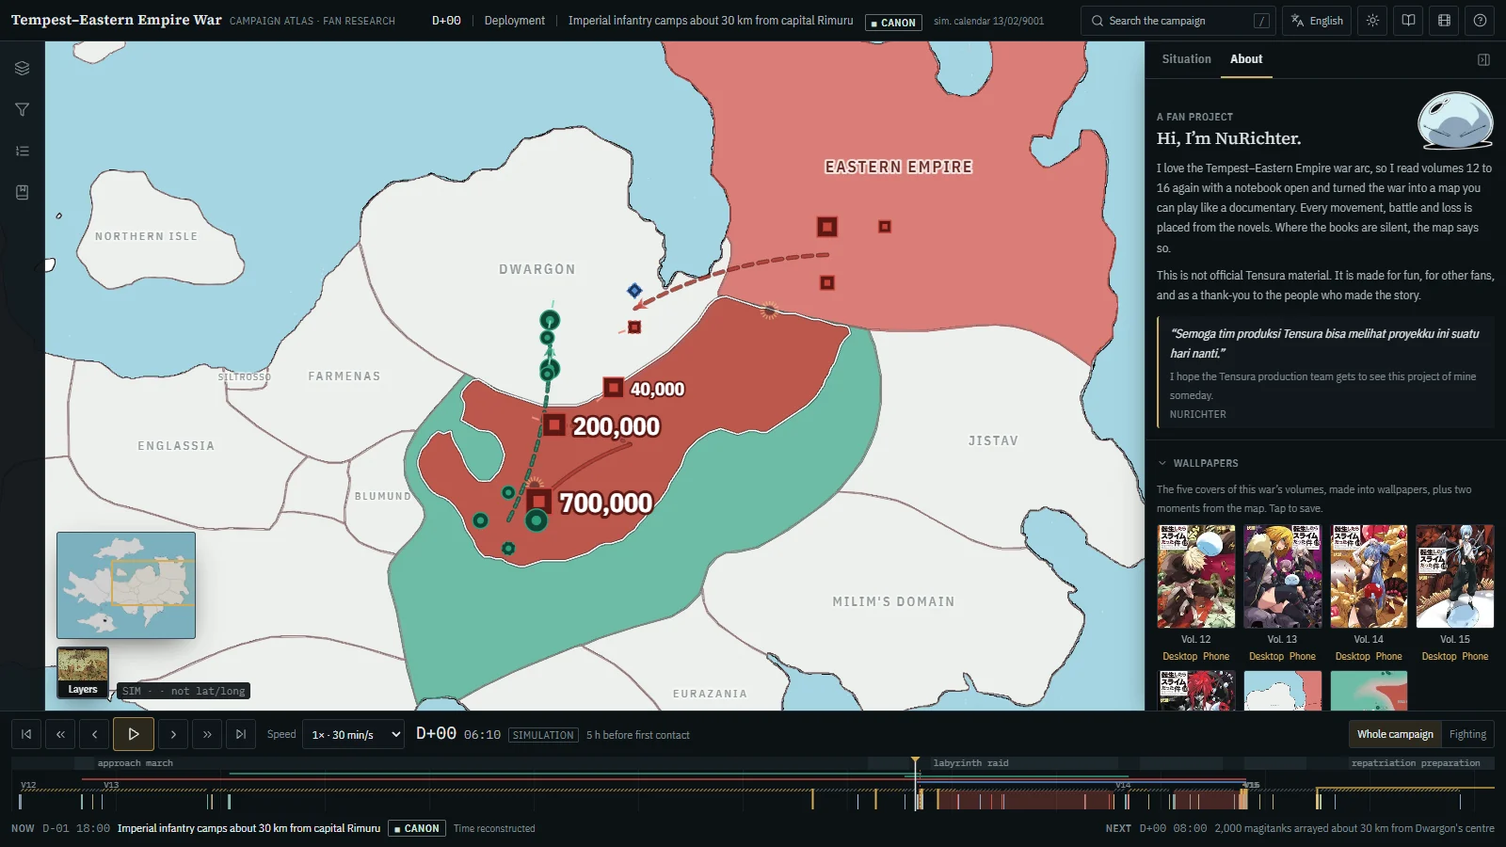
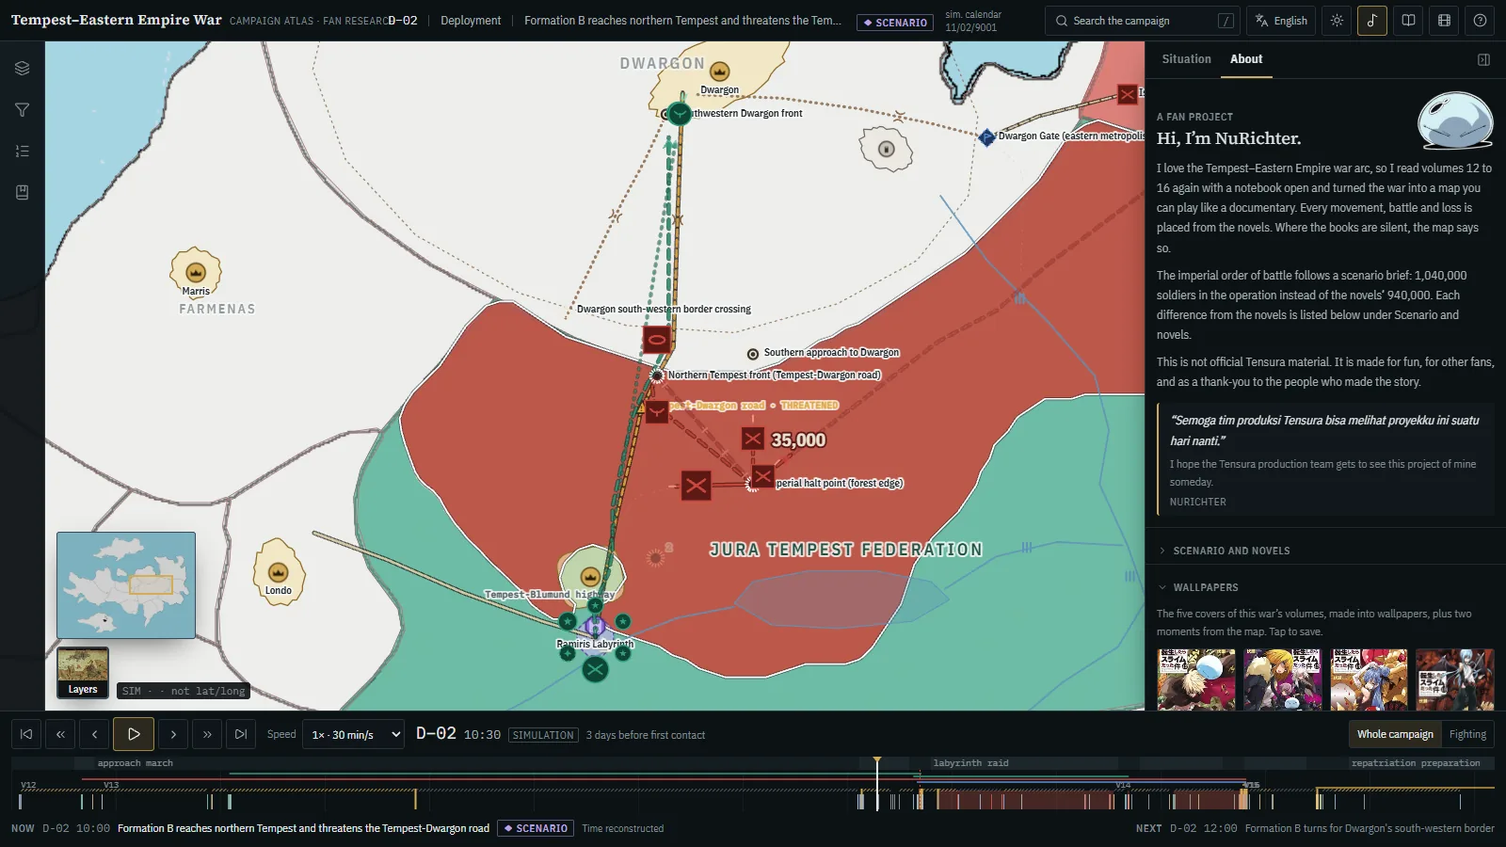
README and atlas media recorded from the current atlas
Every map GIF, screenshot and wallpaper is captured again from the current
build: the timelapse, the split at the halt point, the failed south-western
offensive (replacing the old Dwargon siege clip), the D+10 collapse, both
cinematic modes with the 3D tokens and standees, the tour, themes and
languages. The in-app wallpapers are the same new captures. README text
describes the atlas as it is now; QA figures are from fresh runs.

Place notes for the south-western battlefield, the Isthmus cluster and the
camp outside the labyrinth describe their current positions. The playback
check measures the bulk of a transition, so an off-screen tail no longer
reads as a frozen map. Visual references updated after review.

diff --git a/scripts/capture-playback.ts b/scripts/capture-playback.ts
@@ -18,7 +18,7 @@ import { fileURLToPath } from 'node:url';
 import puppeteer, { type Page } from 'puppeteer';
 
 import { simToLngLatTuple } from '../src/lib/coords';
-import type { FrontFile } from '../src/map/field/front';
+import { decodeFront, type FrontFile } from '../src/map/field/front';
 
 const ROOT = join(dirname(fileURLToPath(import.meta.url)), '..');
 const OUT = join(ROOT, 'qa-artifacts', 'front');
@@ -81,11 +81,19 @@ async function main(): Promise<void> {
     await page.evaluateOnNewDocument('try { localStorage.clear() } catch {}');
     const ep = front.episodes.find((e) => e.kind === 'COLLAPSE' && e.cells >= 500)!;
     const [lng, lat] = simToLngLatTuple(ep.centroid[0], ep.centroid[1]);
-    const start = Math.floor(ep.startFrame - 1);
+    // The bulk of the transition: the 5th to 90th percentile of its flips. An
+    // episode can carry a tail of stragglers far from its centroid, off the
+    // captured view, which would make an on-screen capture look frozen.
+    const decoded = decodeFront(front);
+    const flips: number[] = [];
+    for (let i = 0; i < decoded.times.length; i += 1) if (decoded.times[i] >= ep.startFrame && decoded.times[i] <= ep.endFrame) flips.push(decoded.times[i]);
+    flips.sort((a, b) => a - b);
+    const bulk = { from: flips[Math.floor(flips.length * 0.05)], to: flips[Math.floor(flips.length * 0.9)] };
+    const start = Math.floor(bulk.from - 1);
     await page.goto(`${origin}/?frame=${start}`, { waitUntil: 'networkidle0', timeout: 90000 });
     await page.waitForFunction(() => Boolean((window as unknown as { __atlasMap?: { loaded: () => boolean } }).__atlasMap?.loaded()), { timeout: 60000 });
     await page.evaluate(`window.__atlasMap.jumpTo({ center: [${lng}, ${lat}], zoom: 4.6 })`);
-    await page.keyboard.press('3'); // 1x
+    await page.keyboard.press('2'); // 0.5x, so the captures fall inside the bulk
     await sleep(2500);
     const clip = { x: 48, y: 44, width: 848, height: 610 };
     const shot = async () => Buffer.from(await page.screenshot({ clip, type: 'png' }));
@@ -104,11 +112,11 @@ async function main(): Promise<void> {
     let inside = 0;
     let moving = 0;
     for (let k = 1; k < frames.length; k += 1) {
-      if (times[k - 1] < ep.startFrame - 3 || times[k] > ep.endFrame) continue;
+      if (times[k - 1] < bulk.from - 3 || times[k] > bulk.to) continue;
       inside += 1;
       if ((await diff(blank, frames[k - 1], frames[k])) > 0.002) moving += 1;
     }
-    results.push(['the front moves while playing', inside >= 3 && moving === inside, `${moving}/${inside} captures inside the transition differ; frames ${times.map((t) => t.toFixed(1)).join(', ')} (transition ${ep.startFrame}–${ep.endFrame})`]);
+    results.push(['the front moves while playing', inside >= 3 && moving === inside, `${moving}/${inside} captures inside the transition differ; frames ${times.map((t) => t.toFixed(1)).join(', ')} (bulk of the transition ${bulk.from.toFixed(1)}–${bulk.to.toFixed(1)}, episode ${ep.startFrame}–${ep.endFrame})`]);
 
     // 2. Paused: frozen.
     await page.keyboard.press('Space');

diff --git a/README.md b/README.md
@@ -25,15 +25,15 @@
 ![Languages](https://img.shields.io/badge/bahasa-30-8fc9b6?style=flat-square)
 ![Theme](https://img.shields.io/badge/tema-dark_·_light-a7b1b5?style=flat-square)
 ![Tests](https://img.shields.io/badge/tes-25%2F25_·_skenario_27%2F27-2f9e7e?style=flat-square)
-![Next.js](https://img.shields.io/badge/Next.js-15-000?style=flat-square&logo=nextdotjs)
+![Next.js](https://img.shields.io/badge/Next.js-16-000?style=flat-square&logo=nextdotjs)
 ![MapLibre](https://img.shields.io/badge/MapLibre_GL-5-396CB2?style=flat-square&logo=maplibre&logoColor=white)
 ![TypeScript](https://img.shields.io/badge/TypeScript-strict-3178C6?style=flat-square&logo=typescript&logoColor=white)
 
 <br>
 
-<img src="./assets/readme/gifs/war-timelapse.gif" width="100%" alt="Timelapse seluruh perang dari D−5 sampai D+16 dalam mode sinematik">
+<img src="./assets/readme/gifs/war-timelapse.gif" width="100%" alt="Timelapse seluruh perang dari D−39 sampai D+17">
 
-<sub>Seluruh perang dalam satu tarikan napas. Dari pawai ke hutan Jura sampai malam panjang di Dwargon, direkam langsung dari atlas.</sub>
+<sub>Seluruh perang dalam satu tarikan napas. Satu kolom berangkat dari Kekaisaran, pecah di titik henti, menyerbu hutan Jura dan Dwargon, lalu runtuh. Direkam langsung dari atlas.</sub>
 
 <br><br>
 
@@ -82,7 +82,7 @@ Kalau bukunya diam, atlasnya juga bilang begitu. Asal lo tau ya, angka yang tida
 <td align="center"><h3>24</h3><sub>transisi wilayah, 2.466 sel</sub></td>
 <td align="center"><h3>53</h3><sub>karakter, 41 photocard</sub></td>
 <td align="center"><h3>23</h3><sub>ibu kota, kota, dan Labirin</sub></td>
-<td align="center"><h3>30</h3><sub>bahasa, 823 teks antarmuka</sub></td>
+<td align="center"><h3>30</h3><sub>bahasa, 827 teks antarmuka</sub></td>
 <td align="center"><h3>18</h3><sub>langkah tur bersama warga Tempest</sub></td>
 </tr>
 </table>
@@ -90,8 +90,8 @@ Kalau bukunya diam, atlasnya juga bilang begitu. Asal lo tau ya, angka yang tida
 <br>
 
 <div align="center">
-<img src="./assets/readme/screenshots/hero-dark.webp" width="100%" alt="Atlas pada D+10: kantong Kekaisaran di Jura runtuh, panel Situasi menampilkan siapa melawan siapa">
-<sub>D+10, 10:50. Kamp Kekaisaran di luar Labirin dimusnahkan. Panel kanan langsung menjawab: siapa melawan siapa, berapa yang gugur, apa yang baru terjadi.</sub>
+<img src="./assets/readme/screenshots/hero-dark.webp" width="100%" alt="Atlas pada D−2: Formation B mengancam jalan Tempest–Dwargon, panel Situasi menampilkan buku besar operasi">
+<sub>D−2, 10:30. Formation B (200.000) berdiri di jalan Tempest–Dwargon dan mengancam jalur pasokannya, pasukan lain menyebar dari titik henti. Panel kanan langsung menjawab: siapa melawan siapa, berapa yang gugur, apa yang baru terjadi, dan buku besar pasukan detik itu.</sub>
 </div>
 
 <br>
@@ -102,11 +102,11 @@ Atlas ini meniru *cara* empat video perang dokumenter menggerakkan wilayah. Vide
 
 <table>
 <tr>
-<td width="50%"><img src="./assets/readme/gifs/front-advance-into-jura.gif" alt="Garis depan Kekaisaran maju ke barat menembus hutan Jura"><br><b>D−2 → D−1 · Serbuan ke hutan Jura</b><br><sub>700.000 infanteri masuk. Garis depan merayap ke barat mengikuti barisan pasukan, dengan sabuk transisi gradien di tepinya.</sub></td>
+<td width="50%"><img src="./assets/readme/gifs/front-advance-into-jura.gif" alt="Kolom Kekaisaran pecah di titik henti dan menyerbu hutan Jura"><br><b>D−3 → D+0 · Pecah di titik henti</b><br><sub>Kolom 1.005.000 berhenti dan pecah jadi lima. 700.000 infanteri menyerbu hutan menuju Rimuru, yang lain berangkat ke utara dan ke Dwargon. Garis depan merayap mengikuti barisan.</sub></td>
 <td width="50%"><img src="./assets/readme/gifs/pocket-collapse-d10.gif" alt="Kantong Kekaisaran di Jura runtuh setelah kamp dimusnahkan"><br><b>D+10 · Kantong Jura runtuh</b><br><sub>Baru bergerak setelah ikon pertempuran disilang, lalu mundur ke arah perbatasan Kekaisaran. Wilayah yang paling jauh dari rumah lepas lebih dulu.</sub></td>
 </tr>
 <tr>
-<td width="50%"><img src="./assets/readme/gifs/dwargon-retreat.gif" alt="Sabuk pengepungan Dwargon mundur ke perbatasan Kekaisaran pada malam panjang"><br><b>D+15 → D+16 · Pengepungan Dwargon pecah</b><br><sub>Sabuk pengepungan yang menempel ke tanah air Kekaisaran mundur sampai habis. Legion mendarat dan bertempur, tapi tidak bisa merebut lagi tanah yang sudah hilang.</sub></td>
+<td width="50%"><img src="./assets/readme/gifs/dwargon-sw-offensive.gif" alt="Formation B mengancam jalan Tempest–Dwargon, menembus perbatasan barat daya Dwargon, lalu hancur"><br><b>D−2 → D+0 · Serangan barat daya gagal</b><br><sub>Formation B mengancam jalan Tempest–Dwargon, menembus perbatasan barat daya lewat lembah, dan berbaris 30 km dari kota Dwargon. Lalu hancur. Rutenya berakhir dengan tanda silang, Dwargon tidak pernah jatuh.</sub></td>
 <td width="50%"><img src="./assets/readme/screenshots/capitals-labyrinth.webp" alt="Ibu kota Rimuru dan Labirin Ramiris di tengah wilayah yang dikuasai Kekaisaran"><br><b>Kota tidak pernah jatuh</b><br><sub>Rimuru dengan mahkotanya dan Labirin Ramiris bergaris putus-putus. Wilayah Kekaisaran mengalir di sekelilingnya, persis seperti di novel.</sub></td>
 </tr>
 </table>
@@ -139,7 +139,7 @@ Sutradaranya membaca perang setiap seperempat detik: event terbaru, pertempuran 
 
 **Auto Timing.** Filmnya mengatur kecepatannya sendiri: 16× saat persiapan, 8× saat serbuan pertama, melambat ke 2× menjelang pertempuran, dan 1× tepat saat pertempuran berlangsung. Tombolnya ada di atas layar dan bisa dimatikan kapan saja.
 
-**Cold open.** Sebelum film berjalan, empat kalimat pembuka muncul satu per satu, semuanya dari catatan perang: *"D−40. The Empire decides on war."*, *"1,010,002 imperial soldiers will fall."*, *"700,000 of them will rise again."*, *"Tempest will not lose a single soldier."* Setiap kartu bab juga membawa kalimat pemikat dari event terpenting di bab itu.
+**Cold open.** Sebelum film berjalan, empat kalimat pembuka muncul satu per satu, semuanya dari catatan perang: *"D−40. The Empire decides on war."*, *"1,020,002 imperial soldiers will fall."*, *"700,000 of them will rise again."*, *"Tempest will not lose a single soldier."* Angka gugurnya untuk seluruh Kekaisaran: 1.010.000 dari operasi invasi, ditambah 10.000 Magic Beast Division yang bertempur di luar operasi dan dua tokoh bernama. Setiap kartu bab juga membawa kalimat pemikat dari event terpenting di bab itu.
 
 Kamera tidak pernah melompat. Pusat, zoom, kemiringan, dan arah pandang masing-masing mengikuti pegas teredam kritis yang dihitung persis, jadi gerakannya sama mulusnya di komputer kencang maupun ponsel lambat. Di atasnya ada **kartu bab** di setiap tahap perang, **kartu VS** saat pertempuran dimulai (bendera dan photocard kedua pihak), kartu event yang bertumpuk, buku korban, bingkai viewfinder, dan pita film yang menandai setiap bab. Sentuh peta kapan saja untuk mengambil alih kamera, sutradara kembali beberapa detik kemudian.
 
@@ -150,7 +150,7 @@ Kamera tidak pernah melompat. Pusat, zoom, kemiringan, dan arah pandang masing-m
 Tekan `V` (atau pilih **3D** di sebelah Datar dan Bola dunia) dan seluruh atlas berdiri jadi dunia tiga dimensi, dibangun dengan **three.js**. Mode sinematik memakai panggung yang sama secara default, dengan tombol **2D | 3D** di bagian atas.
 
 <div align="center">
-<img src="./assets/readme/gifs/cinematic-3d.gif" width="100%" alt="Mode sinematik 3D: pertempuran gerbang Dwargon, portal Labirin, dan malam panjang">
+<img src="./assets/readme/gifs/cinematic-3d.gif" width="100%" alt="Mode sinematik 3D: token pasukan di titik henti, serangan barat daya, Gerbang Dwargon, dan standee karakter">
 </div>
 
 | | Yang ada di layar |
@@ -158,11 +158,15 @@ Tekan `V` (atau pilih **3D** di sebelah Datar dan Bola dunia) dan seluruh atlas 
 | 🏔 | **Relief** dengan Myth Map yang di-*super-resolve* sebagai kulitnya. Pegunungan Kanaat berdiri tinggi di sekitar Dwargon. Reliefnya rekonstruksi bergaya, novel tidak memberi ketinggian. |
 | 🌊 | **Laut beranimasi** dengan ombak, pantulan langit, dan kilau matahari |
 | 🟥 | **Wilayah dan front** dari data yang sama dengan peta 2D, dilukis di atas medan, garis depannya menyala |
-| 🗼 | **Pasukan** sebagai pilar bercahaya warna faksi, tingginya mengikuti kekuatan, angkanya melayang di atas |
+| ♟ | **Pasukan sebagai token 3D**, kembaran ikon 2D: alas berbentuk faksi (kotak Kekaisaran, bulat Tempest, belah ketupat Dwargon, segitiga lainnya), simbol jenis unit timbul di atasnya (✕ infanteri, oval lapis baja, baling-baling udara yang berputar, bintang elite), angka kekuatan melayang di atas. Pasukan udara melayang bertali, yang bergerak menunjukkan arah, yang hancur rebah kelabu |
+| 🎴 | **Karakter 2.5D.** Tokoh di event yang sedang berlangsung berdiri sebagai standee photocard di atas dudukan berwarna faksi, selalu menghadap kamera, lengkap dengan bayangan |
+| 🚩 | **Titik strategis** sebagai model kecil: bendera titik henti, menara gerbang, chevron perbatasan, target sasaran, tenda kamp |
+| 🛣 | **Rute terukur** yang sedang ditempuh menempel di relief, sama dengan garis di peta 2D |
 | 💥 | **Pertempuran** dengan cincin berdenyut, percikan api, dan cahaya kobaran selama berlangsung |
 | 👑 | **Ibu kota** sebagai kota 3D bermahkota, **Labirin** sebagai portal ungu dengan pilar cahaya |
 | 🌗 | **Siang dan malam mengikuti jam simulasi.** Matahari bergerak sesuai jam, malam panjang D+15 benar-benar terjadi di bawah cahaya bulan |
 | 🎥 | **Kamera sutradara** yang sama, diterjemahkan ke orbit 3D |
+| 👆 | **Klik** token, titik strategis, atau standee untuk membuka dossier-nya |
 
 **Peta lebih HD saat di-zoom.** Base Map berubah jadi vektor (garis pantai dan perbatasan tetap tajam di zoom berapa pun), dan Myth Map dilukis ulang dengan super-resolusi ×4 (FSRCNN) lalu dipotong jadi 609 tile, jadi detailnya bertahan saat didekati.
 
@@ -180,7 +184,7 @@ Tekan `V` (atau pilih **3D** di sebelah Datar dan Bola dunia) dan seluruh atlas 
 
 ## ⚖ Aturan perang di peta ini
 
-Novel tidak menggambar garis kendali, jadi wilayah yang dikuasai **direkonstruksi** dari posisi, kekuatan, dan nasib setiap formasi. Supaya hasilnya logis seperti perang sungguhan, enam aturan ini dijaga oleh kompiler dan diuji otomatis:
+Novel tidak menggambar garis kendali, jadi wilayah yang dikuasai **direkonstruksi** dari posisi, kekuatan, dan nasib setiap formasi. Supaya hasilnya logis seperti perang sungguhan, tujuh aturan ini dijaga oleh kompiler dan diuji otomatis:
 
 | | Aturan | Artinya di layar |
 |:---:|---|---|
@@ -196,9 +200,9 @@ Detail teknis ada di [`docs/TERRITORIAL-ANIMATION.md`](./docs/TERRITORIAL-ANIMAT
 
 <br>
 
-## 🌍 Skenario R6: model geografis dan buku besar pasukan
+## 🌍 Buku besar pasukan dan peta berskala
 
-Sejak revisi **R6** (11 Oktober 2026), atlas mengikuti **skenario pasukan** milik pemilik proyek, bukan hitungan kanon 940.000. Setiap perbedaan dengan novel tetap dicatat (DISC-R6-01 sampai 09 di panel About), tidak disembunyikan.
+Susunan pasukan Kekaisaran di atlas ini mengikuti **brief skenario** pembuatnya. Novel menyebut 940.000 untuk tentara invasi, skenarionya 1.040.000. Setiap perbedaan dengan novel dicatat dan bisa dibaca di panel About → *Scenario and novels*, tidak disembunyikan.
 
 | | Angka | Dari mana |
 |---|---:|---|
@@ -209,9 +213,9 @@ Sejak revisi **R6** (11 Oktober 2026), atlas mengikuti **skenario pasukan** mili
 | Personel unik dalam operasi | 1.040.000 | 1.010.000 + 30.000 |
 | Gugur / dibangkitkan | 1.010.000 / 700.000 | 310.000 tidak dibangkitkan, 30.000 tidak pernah gugur, 730.000 aktif di akhir |
 
-Semua angka itu **dihitung kompiler** dari data pasukan, event, dan catatan korban, lalu dicek otomatis oleh 27 tes skenario. Panel Situasi menampilkan *Operation ledger* untuk detik yang sedang diputar.
+Semua angka itu **dihitung kompiler** dari data pasukan, event, dan catatan korban, lalu dicek otomatis oleh 27 tes skenario. Panel Situasi menampilkan *Operation ledger* untuk detik yang sedang diputar, lengkap dengan hitungannya.
 
-Petanya sekarang punya **skala**: 1 piksel atlas ≈ 2 km (kalibrasi sintetis dari jarak yang disebut novel). Sungai, danau, pegunungan Kanaat beserta celahnya, hutan, dan jalan dilacak dari peta lukis. Setiap pasukan berjalan di **rute terukur**: lewat jalan, celah gunung, dan arungan, bukan garis lurus. Kecepatannya juga dicek terhadap laju yang disebut novel.
+Petanya punya **skala**: 1 piksel atlas ≈ 2 km, kalibrasi sintetis dari jarak yang disebut novel. Sungai, danau, pegunungan Kanaat beserta celahnya, hutan, dan jalan dilacak dari peta lukis. Setiap pasukan berjalan di **rute terukur**, lewat jalan, celah gunung, dan arungan, bukan garis lurus, dan kecepatannya dicek terhadap laju yang disebut novel. Status jalur pasokan (terbuka, terancam, terputus, aman) tampil di jalan Tempest–Dwargon.
 
 Rinciannya: [`docs/GEOGRAPHIC_MODEL.md`](./docs/GEOGRAPHIC_MODEL.md) · [`docs/CAMPAIGN_FORCE_LEDGER.md`](./docs/CAMPAIGN_FORCE_LEDGER.md) · [`docs/CAMPAIGN_TIMELINE.md`](./docs/CAMPAIGN_TIMELINE.md)
 
@@ -254,7 +258,7 @@ timeline
 | Jam simulasi | `11:30` | ❌ Grid 10 menit, diberi tag *SIMULATION* |
 | Kalender | `…/9001` | ❌ Penanda buatan |
 
-Ringkasan audit sintesis R6 (5 volume, 2.101 halaman, 305 adegan, 13 event baru, hitungan hari yang dikoreksi) ada di [`docs/research/SYNTHESIS_AUDIT.md`](./docs/research/SYNTHESIS_AUDIT.md).
+Ringkasan audit sintesis (5 volume, 2.101 halaman, 305 adegan, 13 event baru, hitungan hari yang dikoreksi) ada di [`docs/research/SYNTHESIS_AUDIT.md`](./docs/research/SYNTHESIS_AUDIT.md). Linimasa lengkap skenarionya ada di [`docs/CAMPAIGN_TIMELINE.md`](./docs/CAMPAIGN_TIMELINE.md).
 
 <br>
 
@@ -292,12 +296,14 @@ Spotlight-nya meluncur mulus ke setiap tombol. Di langkah peta, tur memindahkan 
 
 **🗺 Peta**
 - Base Map yang bersih atau Myth Map yang dilukis, keduanya HD saat di-zoom
-- Mode 3D three.js dengan relief, laut, siang dan malam
+- Mode 3D three.js dengan relief, laut, siang dan malam, token pasukan 3D, dan standee karakter 2.5D
+- Skala ≈ 2 km per piksel, sungai, danau, pegunungan dan celahnya, jalan dengan status pasokan
+- Pasukan berjalan di rute terukur yang mengikuti medan
 - Datar atau bola dunia, waktu tetap tidak bergeser
 - Look *Documentary* atau *War room*
 - Sabuk transisi *Gradient* atau *Pale band*
 - Poligon ibu kota, kota, dan Labirin dengan ikonnya
-- 14 lapisan perang yang bisa dinyalakan satu per satu
+- 19 lapisan perang yang bisa dinyalakan satu per satu
 
 **⏱ Waktu**
 - Kecepatan 0,25× sampai 48×, melambat sendiri di titik balik
@@ -309,8 +315,8 @@ Spotlight-nya meluncur mulus ke setiap tombol. Di langkah peta, tur memindahkan 
 <td width="50%" valign="top">
 
 **🧠 Intelijen**
-- Panel Situasi: siapa melawan siapa, korban, event, photocard A vs B
-- Dossier untuk pasukan, event, pertempuran, karakter, wilayah, teater
+- Panel Situasi: siapa melawan siapa, korban, event, photocard A vs B, buku besar operasi
+- Dossier untuk pasukan, event, pertempuran, karakter, wilayah, teater, tempat, dan fitur geografi, dengan jarak tempuh dalam km
 - Pencarian fuzzy dengan alias dan nama Jepang (`/` atau `Ctrl+K`)
 - Filter faksi, negara, pasukan, pertempuran, jenis event, status kanon
 - Setiap klaim membawa kelas provenans dan lokator sumber
@@ -350,7 +356,8 @@ Spotlight-nya meluncur mulus ke setiap tombol. Di langkah peta, tur memindahkan 
 | `,` `.` | ±1 frame (10 menit) | `C` | Mode sinematik |
 | `1` sampai `8` | Kecepatan | `0` | Bingkai seluruh kampanye |
 | `Esc` | Tutup / batal pilih | `?` | Bantuan |
-| `B` | Bookmark momen ini | | |
+| `B` | Bookmark momen ini | `V` | Mode 3D |
+| `N` | Musik nyala / mati | | |
 
 </details>
 
@@ -363,12 +370,13 @@ Spotlight-nya meluncur mulus ke setiap tombol. Di langkah peta, tur memindahkan 
 | `CANONICAL` | Didukung eksplisit oleh novel |
 | `CANONICAL_WITH_VISUAL_RECONSTRUCTION` | Kejadiannya kanon, posisi, rute, atau jam di peta direkonstruksi |
 | `INFERRED` | Mengikuti dari beberapa petunjuk, tidak dinyatakan |
+| `SCENARIO` | Ditetapkan brief skenario atlas ini, tidak dinyatakan novel |
 | `RECONSTRUCTED` | Jembatan antara titik-titik yang diketahui, dibuat proyek ini |
 | `UNRESOLVED` | Bukti tidak cukup, tetap ditampilkan supaya celahnya kelihatan |
 
 **Boleh:** interpolasi gerakan di antara dua posisi kanonik, jam simulasi untuk event yang di novel hanya bertanggal hari, dan posisi peta untuk tempat yang tidak ditandai (dengan alasan tertulis).
 
-**Tidak boleh:** mengarang pertempuran, korban, jumlah pasukan, keputusan komandan, atau presisi palsu.
+**Tidak boleh:** mengarang pertempuran, korban, keputusan komandan, atau presisi palsu. Angka pasukan yang berbeda dari novel hanya datang dari brief skenario, berkelas `SCENARIO`, dan bedanya dicatat.
 
 </details>
 
@@ -405,11 +413,12 @@ Dan tiga yang direkam langsung dari atlas, tanpa antarmuka:
 ```mermaid
 flowchart LR
     A["📚 Sources of Truth<br/>novel lokal, peta,<br/>photocard, bendera"] --> B["🗂 data-source/campaign<br/>event dan efek, pasukan,<br/>pergerakan, aturan front"]
-    B --> C["⚙ compile-data<br/>deterministik, gaya rumah,<br/>poligon kota"]
-    C --> D["🧭 compile-front<br/>sejarah wilayah dikuasai,<br/>6 aturan perang"]
+    B --> C["⚙ compile-data<br/>deterministik, buku besar,<br/>rute dan kecepatan"]
+    W["🌍 world model<br/>skala km, medan,<br/>rute A*"] --> C
+    C --> D["🧭 compile-front<br/>sejarah wilayah dikuasai,<br/>7 aturan perang"]
     C --> E[("📦 public/data<br/>checkpoint dan delta")]
     D --> E
-    E --> F["🗺 Atlas<br/>MapLibre, kanvas overlay,<br/>30 bahasa"]
+    E --> F["🗺 Atlas<br/>MapLibre, kanvas overlay,<br/>three.js, 30 bahasa"]
     G["✅ validate · test · i18n · QA browser"] -.-> E
     G -.-> F
 ```
@@ -418,7 +427,7 @@ flowchart LR
 <summary><b>🚀 Menjalankan sendiri</b></summary>
 <br>
 
-Butuh **Node 20.11+**. Tidak perlu API key, database, atau penyedia peta eksternal.
+Butuh **Node 20.9+**. Tidak perlu API key, database, atau penyedia peta eksternal.
 
 ```bash
 git clone https://github.com/NuRichter/Tempest_Eastern_Empire_War_Map.git
@@ -435,6 +444,7 @@ python scripts/characters/build_photocards.py       # photocard WebP dan thumbna
 python scripts/flags/build_flag_thumbs.py           # thumbnail bendera WebP
 python scripts/theme/build_theme_assets.py          # wallpaper, stiker, pemandu tur, kursor
 python scripts/cartography/build_hd_maps.py --model FSRCNN_x4.pb   # tile HD, garis pantai vektor, relief 3D
+python scripts/cartography/build_relief_grid.py     # grid relief untuk pencarian rute
 ```
 
 </details>
@@ -445,14 +455,14 @@ python scripts/cartography/build_hd_maps.py --model FSRCNN_x4.pb   # tile HD, ga
 
 ```bash
 npm run verify        # compile, validate-data, validate-assets, lint, typecheck, i18n, test, build
-npm run qa            # 43 cek di Chromium sungguhan, 8 lebar layar (320 sampai 1920 px)
+npm run qa            # 46 cek di Chromium sungguhan, 8 lebar layar (320 sampai 1920 px)
 npm run qa:visual     # regresi visual, 10 checkpoint
 npm run qa:front      # tangkapan 0/25/50/75/100 % tiap transisi wilayah besar
 npm run qa:playback   # front bergerak saat diputar, beku saat dijeda, sama setelah scrub
 npm run qa:perf       # waktu siap, transfer, heap, dan seek di 6 perangkat
 ```
 
-Hasil terakhir: `verify` lulus (25/25 tes engine, 30 bahasa 100 %), `qa` 43/43 termasuk tur, `qa:visual` 10/10, `qa:playback` 3/3. Muatan pertama sekitar 2,0 MB dalam 51 sampai 69 request. `validate-data` dan `i18n:check` juga menolak em dash dan titik koma di semua teks yang tampil di situs. Detail di [`docs/QA.md`](./docs/QA.md).
+Hasil terakhir: `verify` lulus (25/25 tes engine, 27/27 tes skenario, 30 bahasa 100 %), `qa` 46/46 termasuk tur dan mode 3D, `qa:visual` 10/10, `qa:playback` 3/3. Muatan pertama sekitar 2,7 sampai 3,1 MB dalam 74 sampai 129 request, siap dalam kurang dari 2,1 detik. `validate-data` dan `i18n:check` juga menolak em dash dan titik koma di semua teks yang tampil di situs. Detail di [`docs/QA.md`](./docs/QA.md).
 
 </details>
 
@@ -464,6 +474,9 @@ Hasil terakhir: `verify` lulus (25/25 tes engine, 30 bahasa 100 %), `qa` 43/43 t
 |---|---|
 | [`ARCHITECTURE.md`](./docs/ARCHITECTURE.md) | Modul runtime, loop render, model frame dan delta |
 | [`DATA-MODEL.md`](./docs/DATA-MODEL.md) | Bentuk setiap file data |
+| [`GEOGRAPHIC_MODEL.md`](./docs/GEOGRAPHIC_MODEL.md) | Koordinat, skala km, medan, rute, dan kalibrasinya |
+| [`CAMPAIGN_FORCE_LEDGER.md`](./docs/CAMPAIGN_FORCE_LEDGER.md) | Buku besar pasukan, persamaan, dan perbedaan dengan novel |
+| [`CAMPAIGN_TIMELINE.md`](./docs/CAMPAIGN_TIMELINE.md) | Linimasa skenario per fase |
 | [`TERRITORIAL-ANIMATION.md`](./docs/TERRITORIAL-ANIMATION.md) | Mesin wilayah dan aturan perangnya |
 | [`CARTOGRAPHY.md`](./docs/CARTOGRAPHY.md) | Wilayah, ibu kota, kota, Labirin |
 | [`UI-DESIGN.md`](./docs/UI-DESIGN.md) | Anatomi layar dan tur |
@@ -515,11 +528,11 @@ Kalau peta ini bikin kamu ingin baca atau nonton lagi, ini rumah resminya:
 **Perangkat lunak**
 
 - MapLibre contributors. (2026). *MapLibre GL JS* (Version 5.24.0) [Computer software]. MapLibre. https://maplibre.org/maplibre-gl-js/docs/
-- Vercel. (2026). *Next.js* (Version 15.5.25) [Computer software]. https://nextjs.org/docs
-- Meta Platforms. (2024). *React* (Version 19.0.0) [Computer software]. https://react.dev/
+- Vercel. (2026). *Next.js* (Version 16.4.0) [Computer software]. https://nextjs.org/docs
+- Meta Platforms. (2026). *React* (Version 19.3.0) [Computer software]. https://react.dev/
 - Poimandres. (2026). *Zustand* (Version 5.0.15) [Computer software]. https://zustand.docs.pmnd.rs/
-- Tailwind Labs. (2025). *Tailwind CSS* (Version 3.4.19) [Computer software]. https://tailwindcss.com/docs
-- Google. (2026). *Puppeteer* (Version 25.10.0) [Computer software]. https://pptr.dev/
+- Tailwind Labs. (2026). *Tailwind CSS* (Version 4.3.3) [Computer software]. https://tailwindcss.com/docs
+- Google. (2026). *Puppeteer* (Version 25.12.0) [Computer software]. https://pptr.dev/
 - Microsoft. (n.d.). *Playwright* [Computer software]. https://playwright.dev/
 - OpenCV team. (2026). *OpenCV* (Version 4.14.0) [Computer software]. https://opencv.org/
 - FFmpeg developers. (2026). *FFmpeg* [Computer software]. https://ffmpeg.org/
